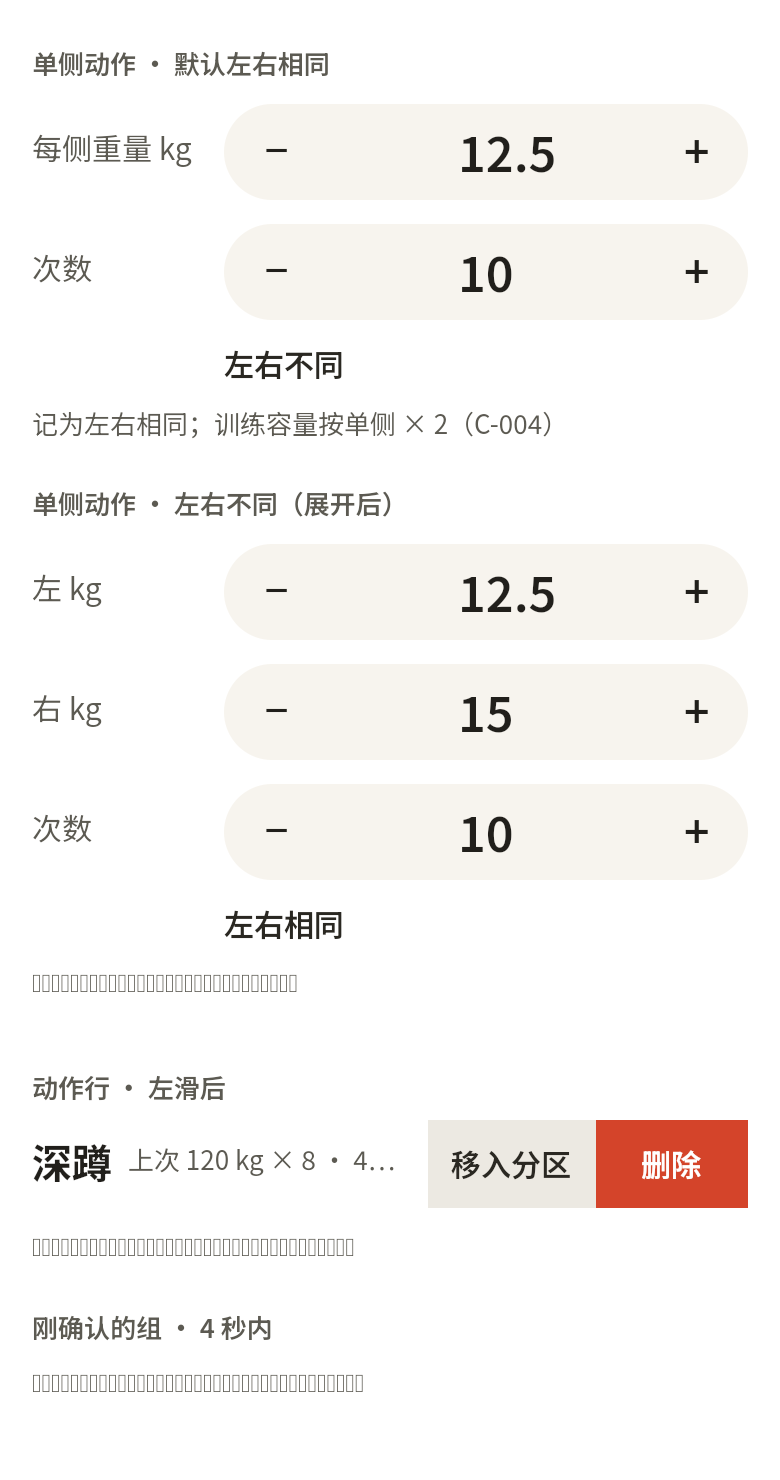
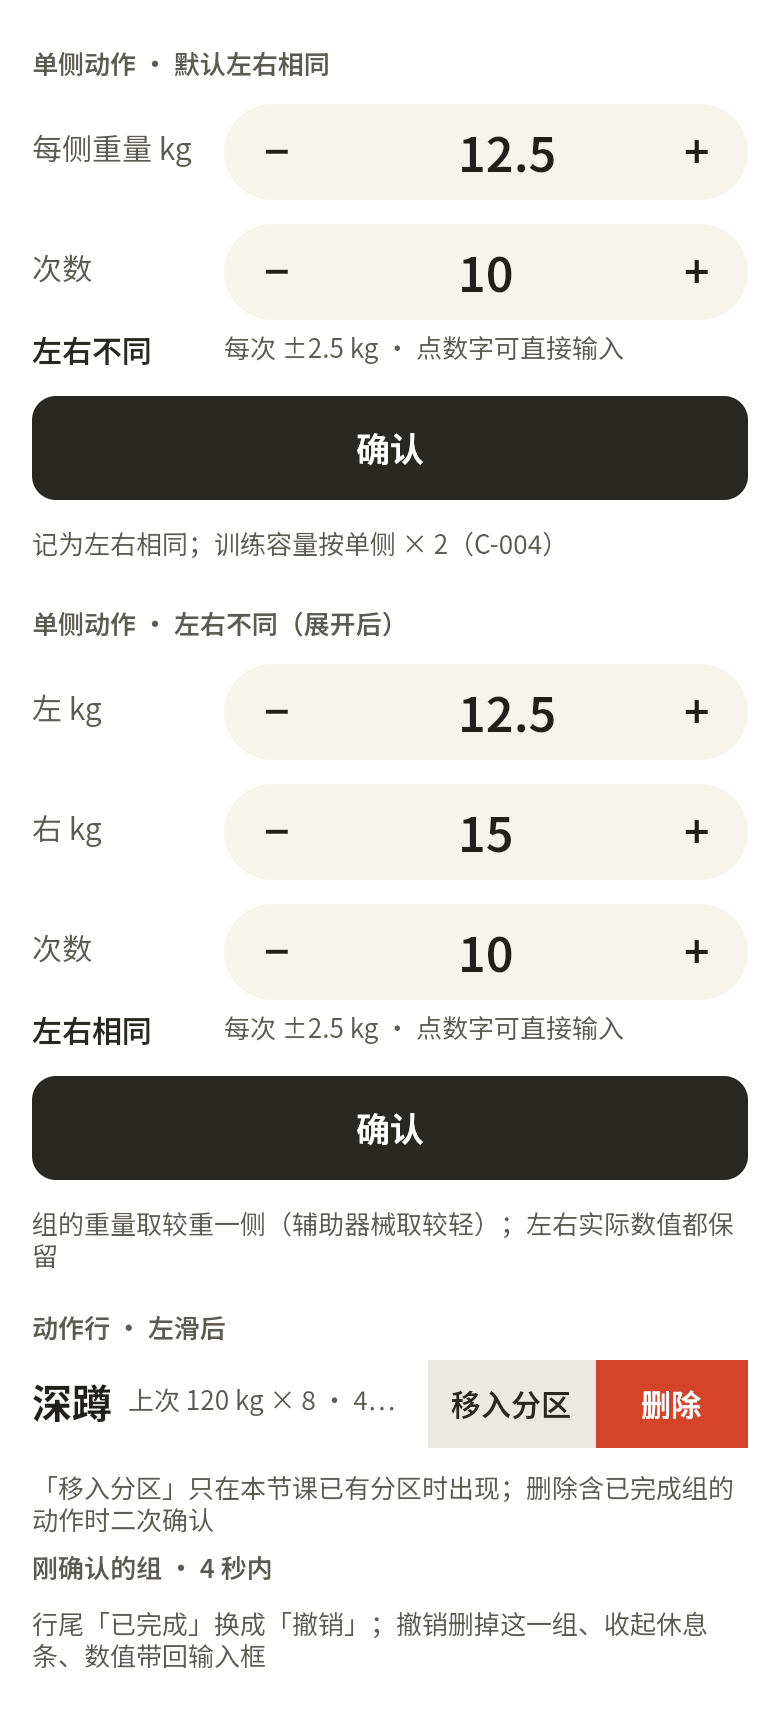
design(p0): backfill P0-a2b hint + confirm, pinned CTA gap rule (S1-D99)
Walkthrough W3/W3b: both unilateral states now draw the P0-a2 hint row and
confirm button; the left/right link sits in the label column on the hint
row so confirm keeps its P0-a2 position. Re-exported at 2x, which also
fixes the missing glyphs in the old PNG.
Walkthrough W2: document a space.4 page-background gap above FcPinnedAction
so scrolled content is not cut under the pinned button.

diff --git a/design/design-system/components.md b/design/design-system/components.md
@@ -385,6 +385,8 @@ P7 15/36/37 D 类修复：37 原因复用上述多行最小高；15 cardio 与 3
 
 P7 Android D 类容器修复（2026-11-13）：`FcScrollBody` 复用二级页 weighted scroll 正文，末尾保留一个主按钮行高的滚动 inset；`FcPinnedAction` 独立于滚动正文、底部 `space.8`，应用于 04/05/36/37/B-a。移除 36/37 inline CTA、05 零底距及 36 行间额外 `space.2`。D-b 沿用 StudentEditor 页头的 `space.4` bottom padding，移除正文紧贴页头的组合；页头组件默认行为及 P4 不变。
 
+滚动正文与固定主按钮的间隔（2026-11-14，S1-D99，P5+P7 走查 W2）：`FcPinnedAction` 上方留 `space.4`（16）`surface.page` 间隔，滚动视口在间隔上沿结束，内容不会被切成半截压在按钮后面；按钮下方 `space.8` 不变。适用于所有「`FcScrollBody` + `FcPinnedAction`」页面：04 / 05 / 36 / 37 / B-a / 训练页。Penpot 说明在「04 课包详情」画板下方（画板本身不变）。
+
 状态：**已审定**（2026-10-08 起草，2026-10-09 随 M2 G7 设计载体 review 通过；来源 `design/m2-hifi/implementation-map.md` §2）。已在 M2 tasks Phase 0 实现（2026-10-10），对应行已进入 §3 索引（`ComponentCatalogTests` 要求索引与 `DesignSystem/` 公开类型一一对应）。人工项（标「人工」的不变量）尚未经人工视觉检查。
 
 #### `DS-PAGE-HEADER` 二级页页头（新增共享，CG-8）
